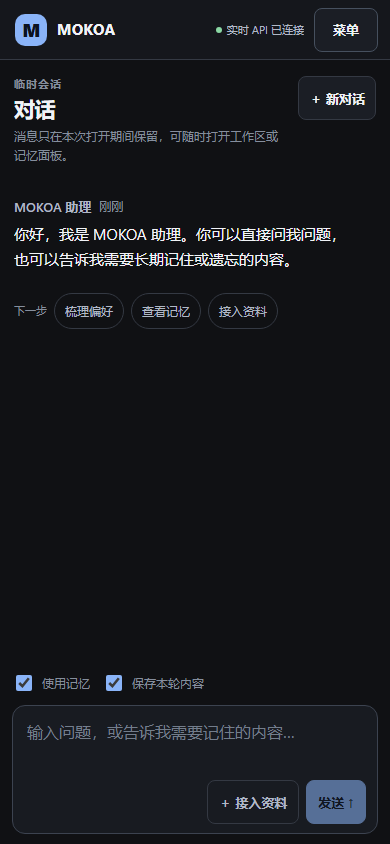
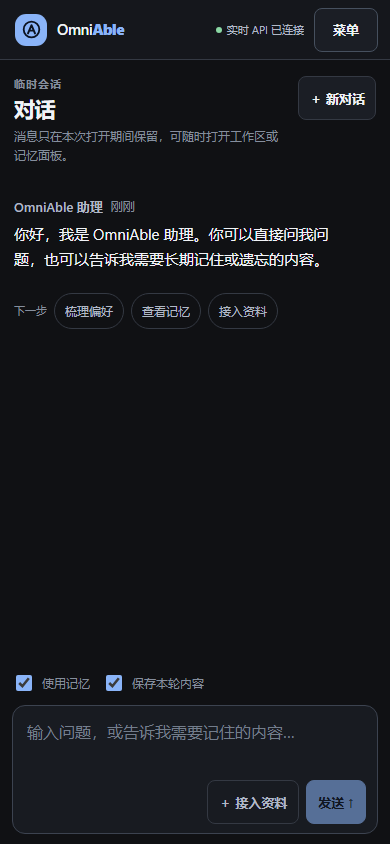
docs(ui): update TASK-012 evidence for OmniAble plugins
Refresh the before/after screenshots for the OmniAble brand and local plugin workbench, and record the 32 unit checks, 21 browser checks, build sizes, plugin boundaries and unresolved backend ingestion fixture issue.

Changed region(s): [[0.0308, 0.2156, 0.8615, 0.3389], [0.1538, 0.0308, 0.3385, 0.0616], [0.0615, 0.0, 0.1231, 0.0616]]

diff --git a/docs/evidence/task-012-ui/README.md b/docs/evidence/task-012-ui/README.md
@@ -7,15 +7,28 @@
 
 ## 改版范围
 
-- 桌面工作台拆成会话栏、聊天主区、辅助面板三块；记忆/工作区可收起、切换和扩宽。
+- 产品界面统一为 **OmniAble**：左上角使用本地 SVG 字标与“O + A”标志，页面标题、favicon、助理名称、欢迎语、空状态和无障碍名称同步更新。
+- 桌面工作台拆成会话栏、聊天主区、辅助面板三块；辅助面板包含工作区、记忆、插件三个页签，可收起、切换和扩宽。
 - 聊天、总览、接入、偏好、记忆、遗忘、文件与网页统一为深色中性面板与蓝色交互强调色，减少重复卡片和旧演示装饰。
-- 手机顶部改为产品名、连接状态、菜单；菜单内完成用户切换、同步、接入、遗忘、工作区和返回聊天。
+- 手机顶部改为产品名、连接状态、菜单；菜单内完成用户切换、同步、插件、接入、遗忘、工作区和返回聊天。
 - 同一用户导航保留草稿；切换用户清空草稿、聊天、遗忘输入、召回、同步状态和旧工作区组件状态。
 - 记忆页签、辅助面板页签支持方向键与选中语义；菜单有可见关闭按钮、Escape、焦点循环和焦点返回。
 - 面板保留逐项同步状态、最后成功时间、旧数据提示和单项重试。遗忘成功后先清除旧快照，再按实际刷新结果显示状态。
 - 输入框使用持续存在的高度变量适配手机可视视口；键盘弹出/可视区域缩小时消息区收缩，输入框和发送按钮留在可视区域。
 - 长文本换行；代码块、差异、文件内容只在自身区域滚动。增加 `prefers-reduced-motion` 处理。
-- 没有实现或宣称插件系统；只保留可继续增加面板的三栏布局和导航位置。
+
+## 本地插件工作台
+
+本轮新增的是**前端本地插件宿主**，不是远程插件市场：
+
+- 左栏“扩展”区域显示已启用插件，并可直接打开。
+- 辅助面板新增“插件”页签：搜索、全部/已安装/可用筛选、安装、移除、打开、插件详情和返回列表。
+- 随应用构建的三个实际插件：
+  - **快捷指令**：选择模板后插入输入框，不自动发送；移动端插入后回到聊天并聚焦输入框。
+  - **对话导出**：把当前临时会话下载为 Markdown，不经过后端。
+  - **会话概览**：统计当前对话轮次、文本量和本轮召回数量。
+- 启用状态保存在浏览器 `localStorage`；插件面板明确注明远程安装、权限审批和后端插件接口尚未接入。
+- 插件只接受随应用构建的模块，不执行远程代码，不访问新增后端接口。
 
 ## 实际验证
 
@@ -23,34 +36,36 @@
 
 | 检查 | 命令 | 结果 |
 | --- | --- | --- |
-| 现有前端回归 | `npm test` | 29 项通过，0 失败 |
-| 生产构建 | `npm run build` | 通过；22 modules，CSS 44.01 kB、JS 339.62 kB |
-| 新增工作台交互回归 | `PLAYWRIGHT_MODULE=<playwright-core> FRONTEND_TEST_URL=http://127.0.0.1:5174 node frontend/tests/workbench-browser.cjs` | 20 项通过 |
+| 前端单元回归 | `npm test` | 32 项通过，0 失败 |
+| 生产构建 | `npm run build` | 通过；27 modules，CSS 50.44 kB、JS 353.46 kB |
+| 工作台浏览器回归 | `PLAYWRIGHT_MODULE=<playwright-core> FRONTEND_TEST_URL=http://127.0.0.1:5174 node frontend/tests/workbench-browser.cjs` | 21 项通过 |
 
 工作台浏览器回归覆盖：
 
 1. 1440 三栏布局与无横向溢出。
-2. 工作区/记忆页签和记忆子页签的方向键、`aria-selected` 与面板关联。
-3. 同用户打开、关闭辅助面板后草稿保留，焦点回到原入口。
-4. 用户切换清空草稿和上一段会话；同步按钮不会偷偷切换用户。
-5. 输入框到接入、发送的 Tab 顺序，可见焦点环，以及减少动态效果媒体查询。
-6. 390 菜单以对话框打开、标题获得焦点、Shift+Tab 在菜单内循环、Escape 回到菜单按钮。
-7. 390 菜单进入记忆后返回聊天，草稿保留、焦点落到聊天标题。
-8. 390 菜单内切换用户后草稿清空，焦点回到菜单按钮。
-9. 390 × 360 等效可视区域下，输入框和发送按钮仍在可视范围内。
-10. 768 使用紧凑外壳且无横向溢出。
-11. 720 × 450（1440 宽度 200% 缩放等效 CSS 视口）输入和发送仍可见。
-12. 长代码在代码块内局部滚动；长中文在消息列内换行，整页不溢出。
-13. 单项画像同步失败时显示旧数据警告和自己的重试按钮，重试成功后警告清除。
-14. 输入 label、唯一 id、aria-live 状态区。
+2. 工作区/记忆/插件页签、记忆子页签的方向键、`aria-selected` 与面板关联，辅助面板扩宽。
+3. 插件安装、打开、快捷指令插入、Markdown 下载，以及插件状态和左栏已启用条目更新。
+4. 同用户打开、关闭辅助面板后草稿保留，焦点回到原入口。
+5. 用户切换清空草稿和上一段会话；同步按钮不会偷偷切换用户。
+6. 输入框到接入、发送的 Tab 顺序，可见焦点环，以及减少动态效果媒体查询。
+7. 390 菜单以对话框打开、标题获得焦点、Shift+Tab 在菜单内循环、Escape 回到菜单按钮。
+8. 390 菜单进入记忆后返回聊天，草稿保留、焦点落到聊天标题。
+9. 390 菜单内切换用户后草稿清空，焦点回到菜单按钮。
+10. 390 菜单可进入同步、接入、遗忘、工作区、插件；插件面板无横向溢出。
+11. 390 × 360 等效可视区域下，输入框和发送按钮仍在可视范围内。
+12. 768 使用紧凑外壳且无横向溢出。
+13. 720 × 450（1440 宽度 200% 缩放等效 CSS 视口）输入和发送仍可见。
+14. 长代码在代码块内局部滚动；长中文在消息列内换行，整页不溢出。
+15. 单项画像同步失败时显示旧数据警告和自己的重试按钮，重试成功后警告清除。
+16. 输入 label、唯一 id、aria-live 状态区。
 
 ### 视口与截图
 
 | 视口 | 检查 |
 | --- | --- |
-| 390 × 844 | 聊天、菜单、记忆、偏好、遗忘、工作区、返回聊天、用户切换、键盘可视区模拟 |
-| 768 × 1024 | 紧凑外壳、菜单、记忆页、无横向溢出 |
-| 1440 × 900 | 三栏、辅助面板切换/扩宽、聊天、接入、偏好、记忆、遗忘、工作区 |
+| 390 × 844 | 聊天、菜单、插件管理、插件详情、记忆、遗忘、工作区、返回聊天、用户切换、键盘可视区模拟 |
+| 768 × 1024 | 紧凑外壳、菜单、无横向溢出 |
+| 1440 × 900 | 三栏、辅助面板切换/扩宽、插件管理、插件详情、聊天、接入、偏好、遗忘、工作区 |
 | 720 × 450 | 1440 下 200% 浏览器缩放的等效 CSS 视口；无横向溢出，输入和发送可达 |
 
 改版前后截图保存在本目录：
@@ -64,6 +79,7 @@
 
 - **没有在真实手机上验证系统软键盘**。当前用 390 × 360 可视视口和 `visualViewport` 高度变化模拟键盘占用；真实 iOS/Android 键盘的滚动与安全区仍需真机验收。
 - **200% 缩放是等效视口测试**，通过 720 × 450 CSS 视口检查重排；没有在浏览器 UI 中实际拖动缩放级别。390 宽度的 200% 缩放不构成常规重排场景。
+- **插件远程安装、权限审批、签名校验和后端插件接口未实现**。当前只有随应用构建的本地插件注册表和本机启用状态，不能据此宣称完整的第三方插件系统。
 - 未运行真实模型 E2E、BGE-M3 语义效果、麒麟原生 SDK 或麒麟性能验收；本次只覆盖内存/hash 隔离 fixture 和前端交互。
 - 未声称 CI 已通过；以上均为本机结果。
 - `frontend/tests/ingestion-browser.cjs` 本轮尝试运行，在空白图片无说明的路径被**既有后端错误**阻断：`src/ingestion/staging_store.py` 的 semantic redact 分支在 `record=None` 时访问 `record.content`，返回 500。前端按设计显示了请求异常；该问题不属于本次 UI 改动，未在 TASK-012 中修改后端，也未改测试来掩盖。接入页的结构、标签、文件队列和用户切换仍由本目录的工作台回归和纯 Node 测试覆盖。
